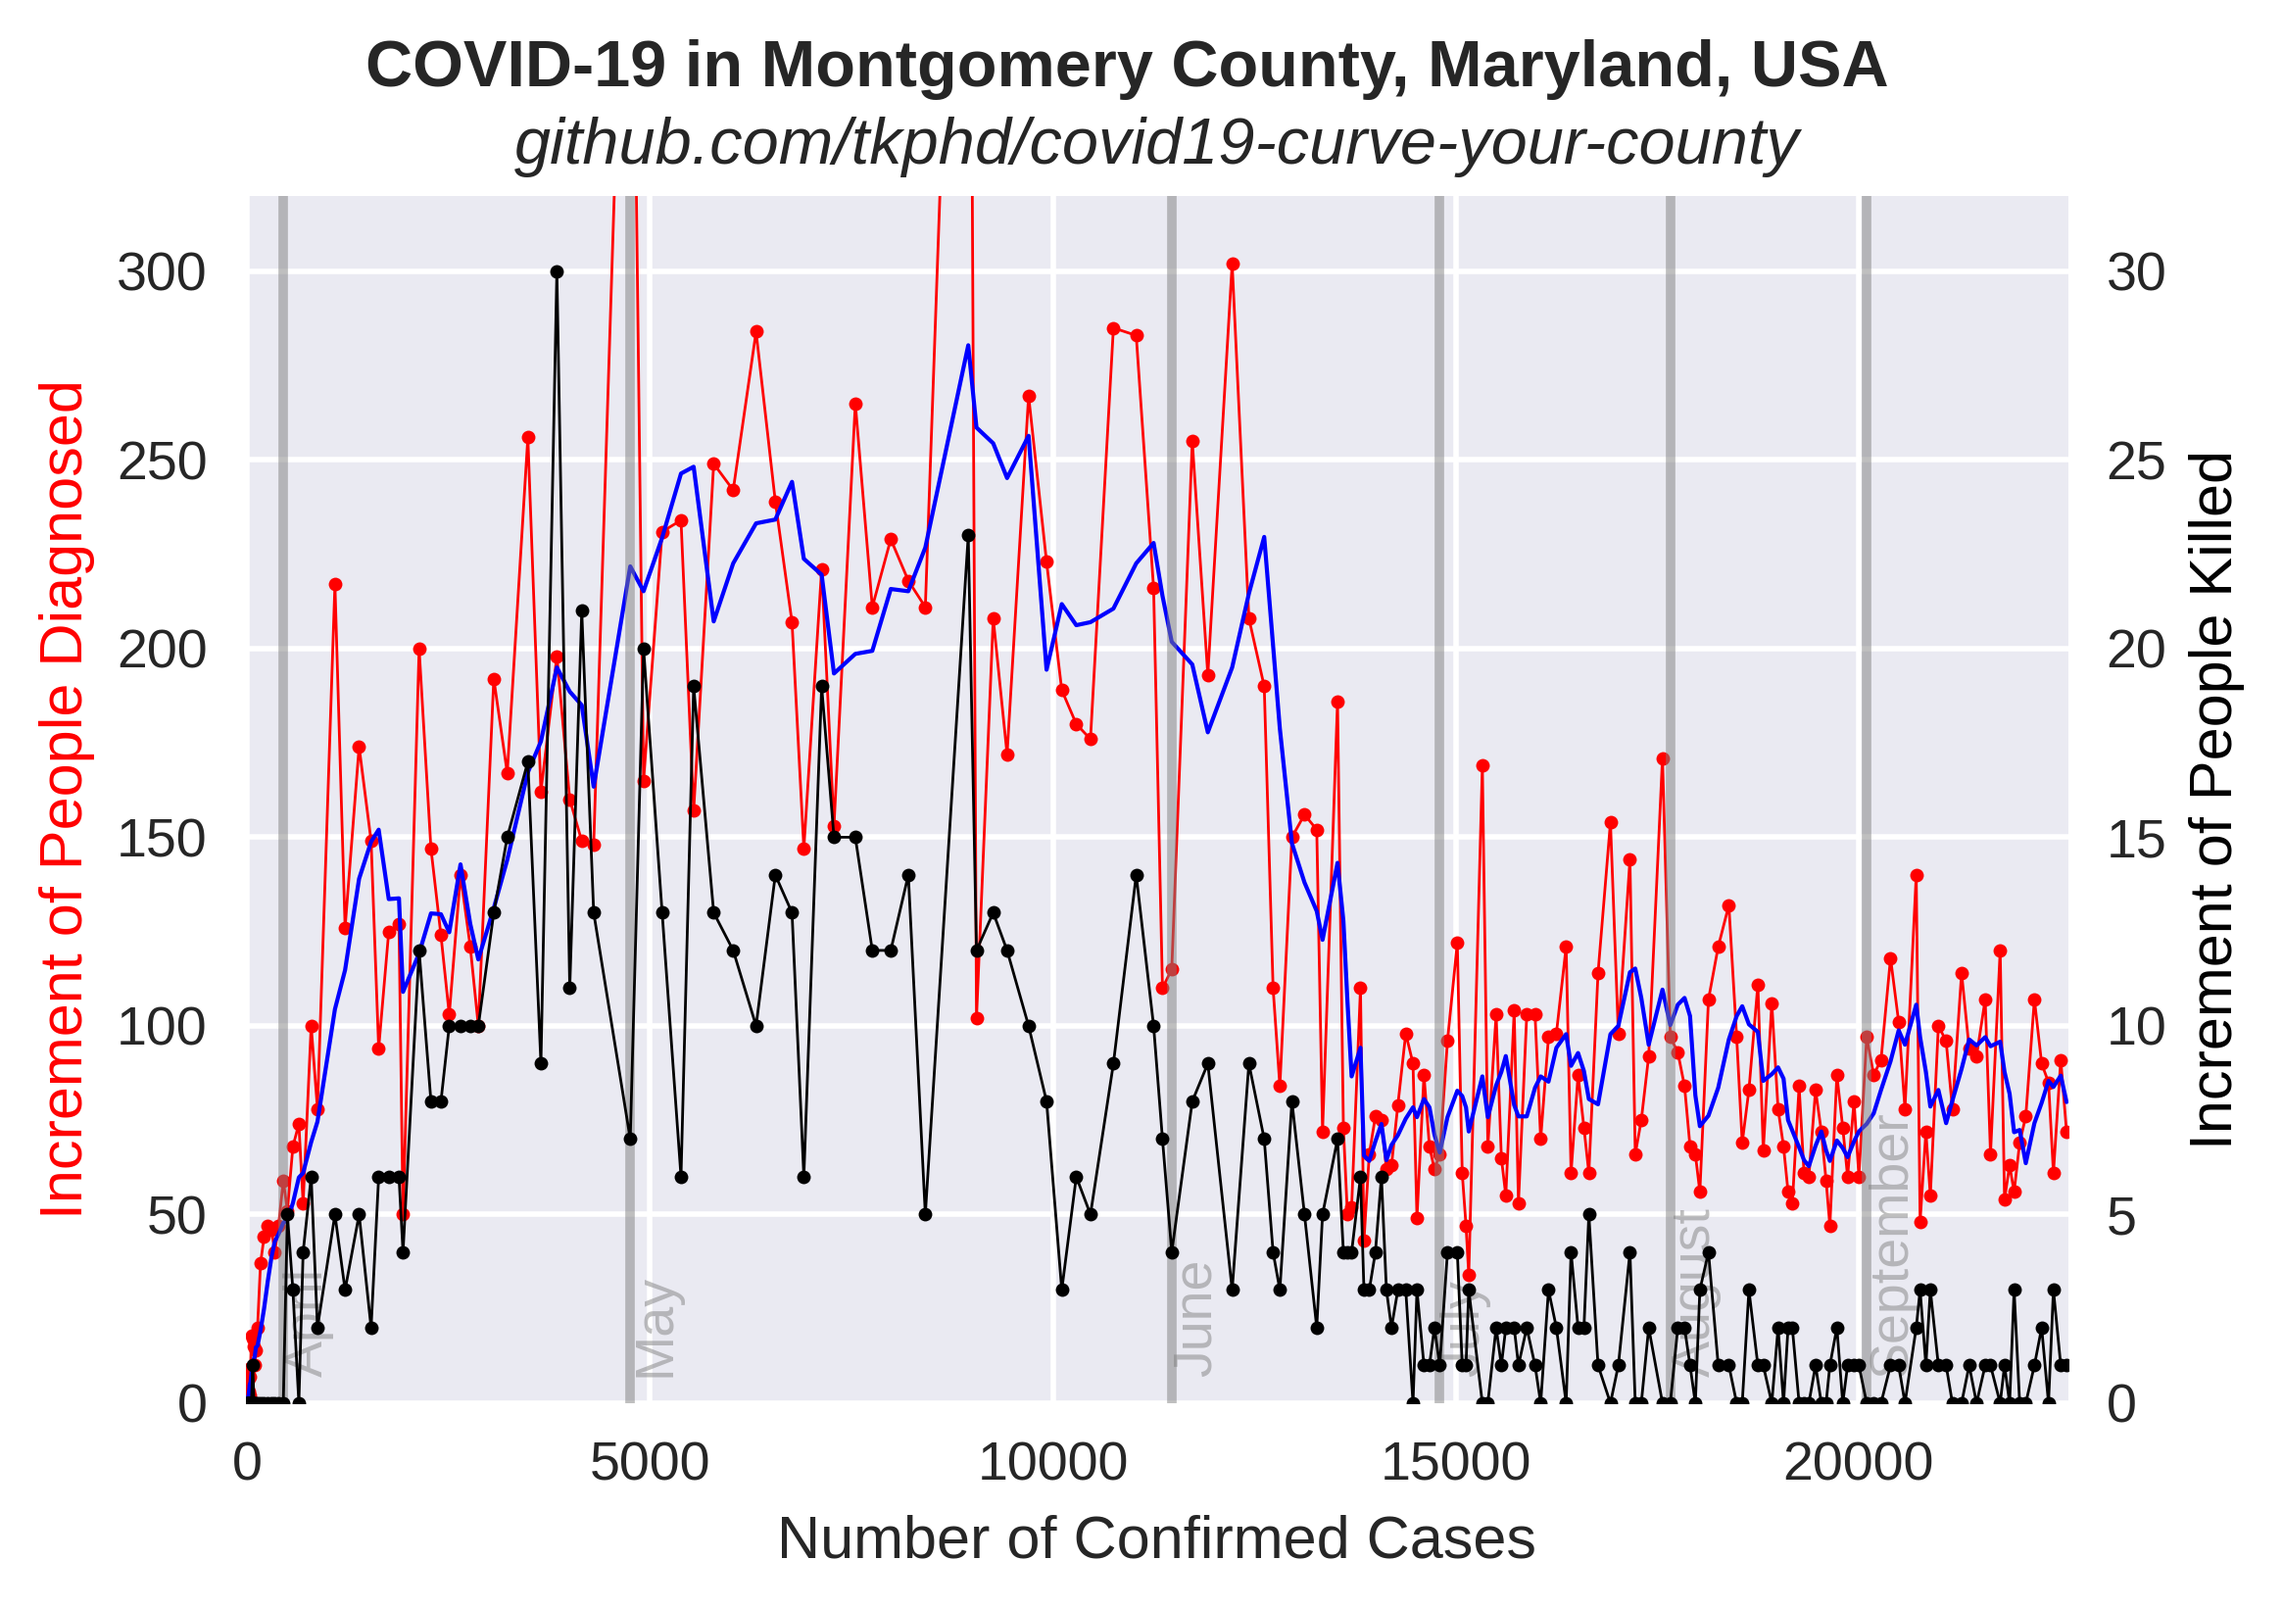
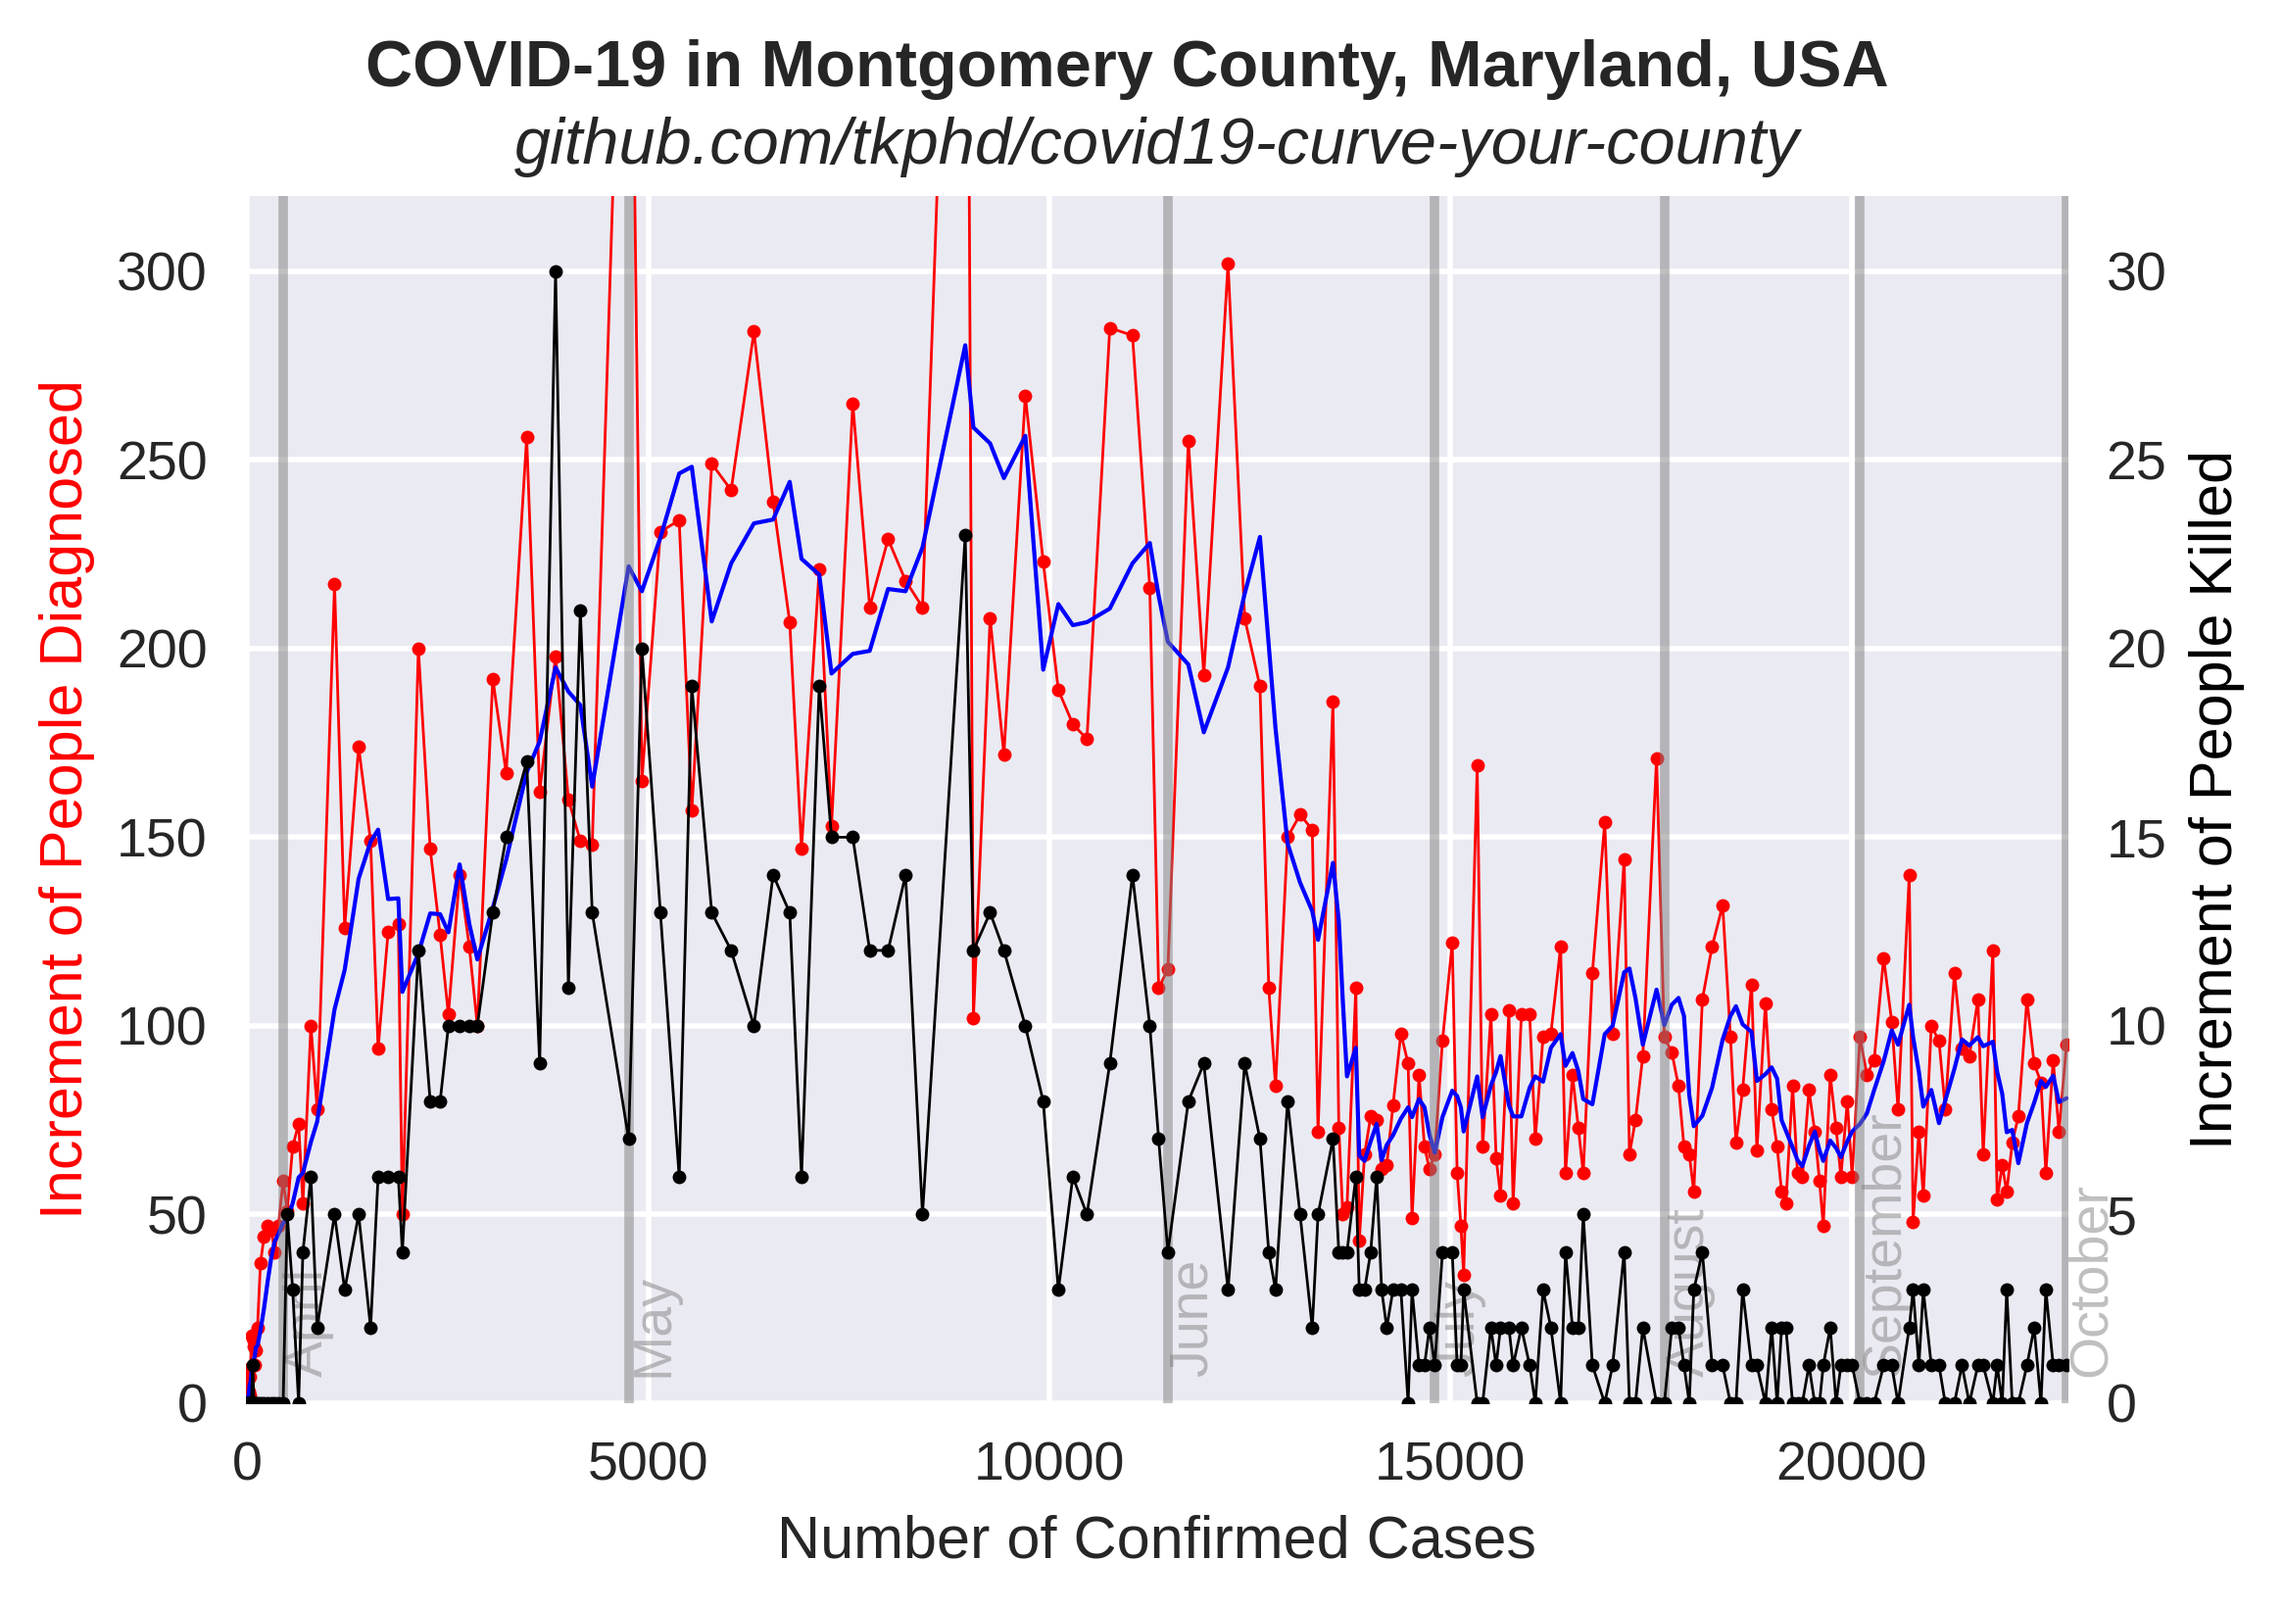
2020-10-01 update

diff --git a/exponential.py b/exponential.py
@@ -106,7 +106,7 @@ months = [
     ["July",      date(2020,  7, 1).toordinal() - start],
     ["August",    date(2020,  8, 1).toordinal() - start],
     ["September", date(2020,  9, 1).toordinal() - start],
-    # ["October",   date(2020, 10, 1).toordinal() - start],
+    ["October",   date(2020, 10, 1).toordinal() - start],
     # ["November",  date(2020, 11, 1).toordinal() - start],
     # ["December",  date(2020, 12, 1).toordinal() - start]
 ]
